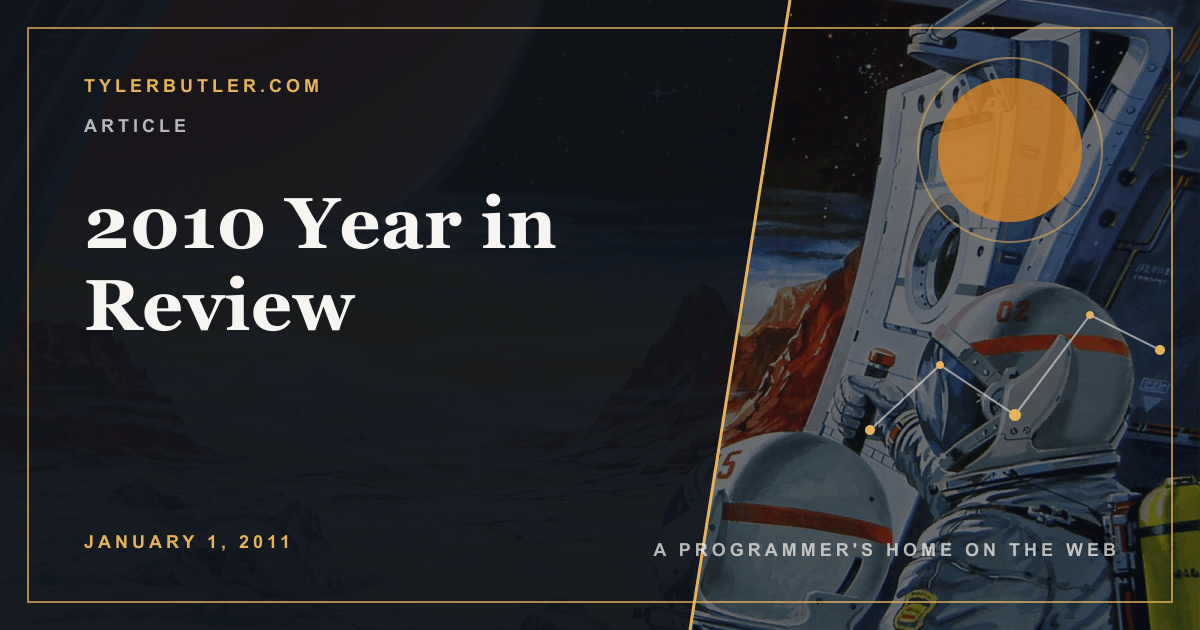
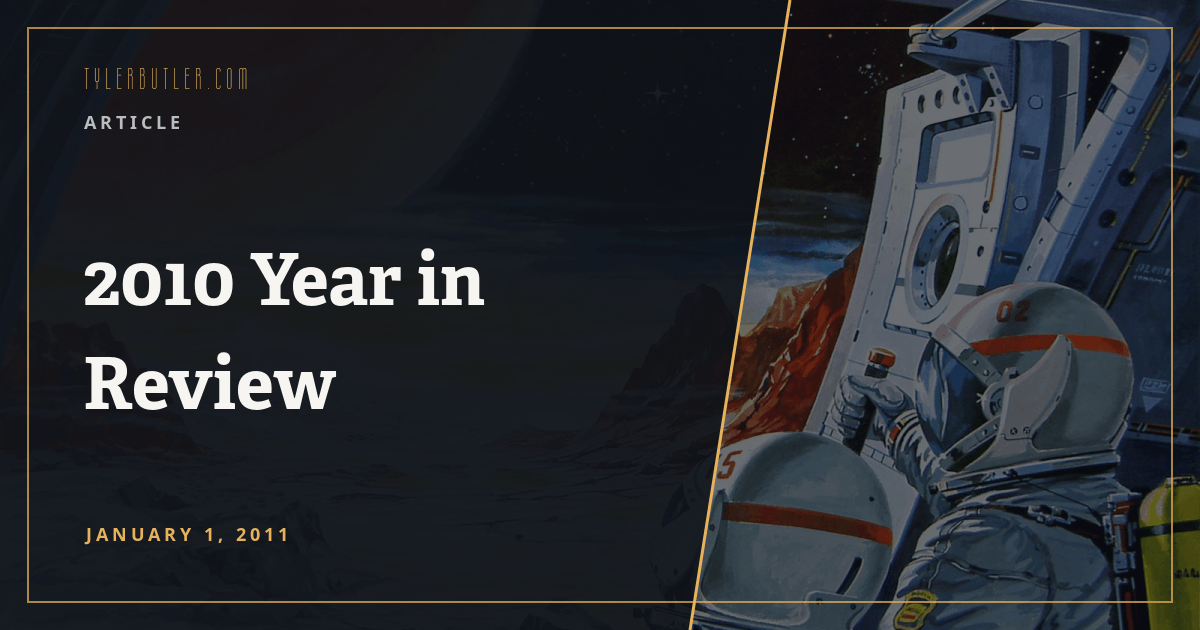
fix(og): render site fonts reliably
Fetch licensed Adobe fonts only during uncached builds and persist generated cards across Netlify deploys.

diff --git a/src/lib/og-image.ts b/src/lib/og-image.ts
@@ -1,8 +1,120 @@
+import { createHash } from "node:crypto";
+import fs from "node:fs";
+import os from "node:os";
 import path from "node:path";
 import sharp from "sharp";
 
 const WIDTH = 1200;
 const HEIGHT = 630;
+const TEMPLATE_VERSION = 1;
+const cacheDirectory = path.join(process.cwd(), ".cache", "og-images");
+const backgroundPath = path.join(process.cwd(), "public", "bg-hq.webp");
+const backgroundHash = createHash("sha256")
+  .update(fs.readFileSync(backgroundPath))
+  .digest("hex");
+const TYPEKIT_CSS_URL = "https://use.typekit.net/zsx5vsn.css";
+const latoFiles = path.join(
+  process.cwd(),
+  "node_modules",
+  "@fontsource",
+  "lato",
+  "files",
+);
+
+interface TypekitFont {
+  family: "adelle" | "westgate";
+  weight: number;
+  style: "normal" | "italic";
+}
+
+interface OgFonts {
+  adelleBold: string;
+  adelleItalic: string;
+  latoBold: string;
+  westgate: string;
+}
+
+let fontsPromise: Promise<OgFonts> | undefined;
+
+function findTypekitFontUrl(css: string, font: TypekitFont): string {
+  const block = (css.match(/@font-face\s*{[^}]+}/g) ?? []).find(
+    (candidate) =>
+      candidate.includes(`font-family:"${font.family}"`) &&
+      candidate.includes(`font-weight:${font.weight}`) &&
+      candidate.includes(`font-style:${font.style}`),
+  );
+  const url = block?.match(/url\("([^"]+)"\) format\("opentype"\)/)?.[1];
+  if (!url) {
+    throw new Error(
+      `Adobe Fonts kit is missing ${font.family} ${font.weight} ${font.style}`,
+    );
+  }
+  return url;
+}
+
+async function downloadTypekitFont(
+  css: string,
+  font: TypekitFont,
+): Promise<string> {
+  const url = findTypekitFontUrl(css, font);
+  const response = await fetch(url);
+  if (!response.ok) {
+    throw new Error(
+      `Could not download ${font.family}: ${response.status} ${response.statusText}`,
+    );
+  }
+
+  const directory = path.join(os.tmpdir(), "tylerbutler-og-fonts");
+  const filename = path.join(
+    directory,
+    `${font.family}-${font.weight}-${font.style}.otf`,
+  );
+  await fs.promises.mkdir(directory, { recursive: true });
+  await fs.promises.writeFile(
+    filename,
+    Buffer.from(await response.arrayBuffer()),
+  );
+  return filename;
+}
+
+function loadFonts(): Promise<OgFonts> {
+  fontsPromise ??= (async () => {
+    const response = await fetch(TYPEKIT_CSS_URL);
+    if (!response.ok) {
+      throw new Error(
+        `Could not load Adobe Fonts kit: ${response.status} ${response.statusText}`,
+      );
+    }
+    const css = await response.text();
+
+    const [adelleBold, adelleItalic, westgate] = await Promise.all([
+      downloadTypekitFont(css, {
+        family: "adelle",
+        weight: 700,
+        style: "normal",
+      }),
+      downloadTypekitFont(css, {
+        family: "adelle",
+        weight: 400,
+        style: "italic",
+      }),
+      downloadTypekitFont(css, {
+        family: "westgate",
+        weight: 100,
+        style: "normal",
+      }),
+    ]);
+
+    return {
+      adelleBold,
+      adelleItalic,
+      latoBold: path.join(latoFiles, "lato-latin-700-normal.woff2"),
+      westgate,
+    };
+  })();
+
+  return fontsPromise;
+}
 
 interface OgImageOptions {
   title: string;
@@ -11,13 +123,17 @@ interface OgImageOptions {
   kind: "ARTICLE" | "GUIDE" | "LINK";
 }
 
+interface CachedOgImageOptions extends OgImageOptions {
+  slug: string;
+}
+
 interface TitleLayout {
   lines: string[];
   fontSize: number;
   lineHeight: number;
 }
 
-const background = sharp(path.join(process.cwd(), "public", "bg-hq.webp"))
+const background = sharp(backgroundPath)
   .resize(WIDTH, HEIGHT, { fit: "cover", position: "center" })
   .modulate({ brightness: 0.62, saturation: 0.78 })
   .composite([
@@ -28,14 +144,6 @@ const background = sharp(path.join(process.cwd(), "public", "bg-hq.webp"))
           <path d="M0 0H790L690 630H0Z" fill="#0f1419" fill-opacity=".88"/>
           <path d="M790 0L690 630" stroke="#e6b35c" stroke-width="3"/>
           <path d="M28 28H1172V602H28Z" fill="none" stroke="#e6b35c" stroke-opacity=".72" stroke-width="2"/>
-          <circle cx="1010" cy="150" r="72" fill="#d4842a" fill-opacity=".82"/>
-          <circle cx="1010" cy="150" r="92" fill="none" stroke="#e6b35c" stroke-opacity=".55" stroke-width="2"/>
-          <path d="M870 430L940 365L1015 415L1090 315L1160 350" fill="none" stroke="#f7f5f2" stroke-opacity=".56" stroke-width="2"/>
-          <g fill="#e6b35c">
-            <circle cx="870" cy="430" r="5"/><circle cx="940" cy="365" r="4"/>
-            <circle cx="1015" cy="415" r="6"/><circle cx="1090" cy="315" r="4"/>
-            <circle cx="1160" cy="350" r="5"/>
-          </g>
         </svg>
       `),
     },
@@ -103,11 +211,12 @@ export async function createOgImage({
   date,
   kind,
 }: OgImageOptions): Promise<Buffer> {
+  const fonts = await loadFonts();
   const { lines, fontSize, lineHeight } = layoutTitle(title);
   const subtitleLines = subtitle ? wrapTitle(subtitle, 31).slice(0, 3) : [];
   const titleHeight = lines.length * lineHeight;
   const subtitleHeight = subtitleLines.length * 43;
-  const titleY = Math.max(
+  const titleTop = Math.max(
     190,
     330 - (titleHeight + (subtitle ? 24 + subtitleHeight : 0)) / 2,
   );
@@ -119,38 +228,103 @@ export async function createOgImage({
     })
     .toUpperCase();
 
-  const titleLines = lines
-    .map(
-      (line, index) =>
-        `<text x="84" y="${titleY + index * lineHeight}" class="title" fill="#f7f5f2">${escapeXml(line)}</text>`,
-    )
-    .join("");
-  const subtitleY = titleY + titleHeight + 24;
-  const subtitleText = subtitleLines
-    .map(
-      (line, index) =>
-        `<text x="84" y="${subtitleY + index * 43}" class="subtitle" fill="#f7f5f2">${escapeXml(line)}</text>`,
-    )
-    .join("");
-
-  const textLayer = Buffer.from(`
-    <svg width="${WIDTH}" height="${HEIGHT}" xmlns="http://www.w3.org/2000/svg">
-      <style>
-        .label { font-family: Arial, sans-serif; font-size: 18px; font-weight: 700; letter-spacing: 4px; }
-        .title { font-family: Georgia, serif; font-size: ${fontSize}px; font-weight: 700; letter-spacing: .5px; }
-        .subtitle { font-family: Georgia, serif; font-size: 34px; font-style: italic; font-weight: 400; letter-spacing: .3px; }
-      </style>
-      <text x="84" y="92" class="label" fill="#e6b35c">TYLERBUTLER.COM</text>
-      <text x="84" y="132" class="label" fill="#f7f5f2" opacity=".72">${kind}</text>
-      ${titleLines}
-      ${subtitleText}
-      <text x="84" y="548" class="label" fill="#e6b35c">${formattedDate}</text>
-      <text x="1116" y="556" text-anchor="end" class="label" fill="#f7f5f2" opacity=".72">A PROGRAMMER'S HOME ON THE WEB</text>
-    </svg>
-  `);
-
   return sharp(await background)
-    .composite([{ input: textLayer }])
+    .composite([
+      {
+        input: {
+          text: {
+            text: `<span foreground="#e6b35c" letter_spacing="5120">${escapeXml("TYLERBUTLER.COM")}</span>`,
+            font: "westgate-100-normal 30",
+            fontfile: fonts.westgate,
+            rgba: true,
+          },
+        },
+        left: 84,
+        top: 68,
+      },
+      {
+        input: {
+          text: {
+            text: `<span foreground="#b9bbc0" letter_spacing="4096">${kind}</span>`,
+            font: "Lato Bold 18",
+            fontfile: fonts.latoBold,
+            rgba: true,
+          },
+        },
+        left: 84,
+        top: 116,
+      },
+      {
+        input: {
+          text: {
+            text: `<span foreground="#f7f5f2">${escapeXml(lines.join("\n"))}</span>`,
+            font: `adelle-700-normal ${fontSize}`,
+            fontfile: fonts.adelleBold,
+            spacing: lineHeight - fontSize,
+            rgba: true,
+          },
+        },
+        left: 84,
+        top: titleTop,
+      },
+      ...(subtitle
+        ? [
+            {
+              input: {
+                text: {
+                  text: `<span foreground="#f7f5f2">${escapeXml(subtitleLines.join("\n"))}</span>`,
+                  font: "adelle-400-italic 34",
+                  fontfile: fonts.adelleItalic,
+                  spacing: 9,
+                  rgba: true,
+                },
+              },
+              left: 84,
+              top: titleTop + titleHeight + 24,
+            },
+          ]
+        : []),
+      {
+        input: {
+          text: {
+            text: `<span foreground="#e6b35c" letter_spacing="4096">${formattedDate}</span>`,
+            font: "Lato Bold 18",
+            fontfile: fonts.latoBold,
+            rgba: true,
+          },
+        },
+        left: 84,
+        top: 528,
+      },
+    ])
     .png({ compressionLevel: 9, palette: true })
     .toBuffer();
+}
+
+export async function createCachedOgImage({
+  slug,
+  ...options
+}: CachedOgImageOptions): Promise<Buffer> {
+  const key = createHash("sha256")
+    .update(
+      JSON.stringify({
+        template: TEMPLATE_VERSION,
+        background: backgroundHash,
+        ...options,
+      }),
+    )
+    .digest("hex")
+    .slice(0, 16);
+  const cachePath = path.join(cacheDirectory, `${slug}-${key}.png`);
+
+  try {
+    return await fs.promises.readFile(cachePath);
+  } catch (error) {
+    if ((error as NodeJS.ErrnoException).code !== "ENOENT") throw error;
+  }
+
+  const image = await createOgImage(options);
+  await fs.promises.mkdir(cacheDirectory, { recursive: true });
+  await fs.promises.writeFile(cachePath, image);
+  return image;
 }

diff --git a/src/pages/og/[slug].png.ts b/src/pages/og/[slug].png.ts
@@ -2,9 +2,10 @@ import { getCollection } from "astro:content";
 import type { APIRoute } from "astro";
 import { getArticleSlug } from "../../lib/article-utils";
 import { includeDraft } from "../../lib/draft-utils";
-import { createOgImage } from "../../lib/og-image";
+import { createCachedOgImage } from "../../lib/og-image";
 
 interface OgImageProps {
+  slug: string;
   title: string;
   subtitle?: string;
   date: Date;
@@ -19,6 +20,7 @@ export async function getStaticPaths() {
   return articles.map((article) => ({
     params: { slug: getArticleSlug(article) },
     props: {
+      slug: getArticleSlug(article),
       title: article.data.title,
       subtitle: article.data.subtitle,
       date: article.data.date,
@@ -33,7 +35,7 @@ export async function getStaticPaths() {
 }
 
 export const GET: APIRoute<OgImageProps> = async ({ props }) => {
-  const image = await createOgImage(props);
+  const image = await createCachedOgImage(props);
 
   return new Response(new Uint8Array(image), {
     headers: {

diff --git a/netlify/plugins/og-image-cache/index.js b/netlify/plugins/og-image-cache/index.js
@@ -1,0 +1,9 @@
+const cacheDirectory = ".cache/og-images";
+
+export async function onPreBuild({ utils }) {
+  await utils.cache.restore(cacheDirectory);
+}
+
+export async function onPostBuild({ utils }) {
+  await utils.cache.save(cacheDirectory);
+}
